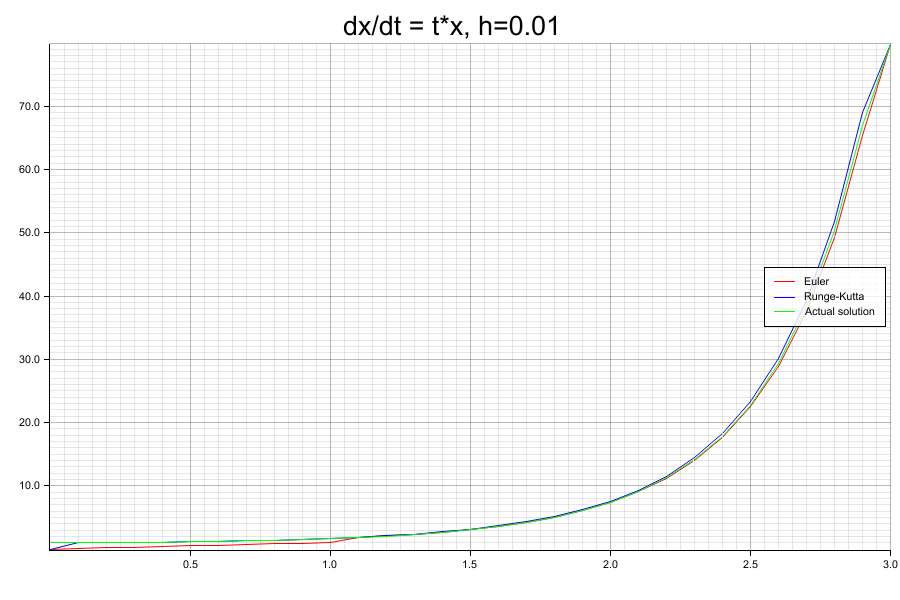
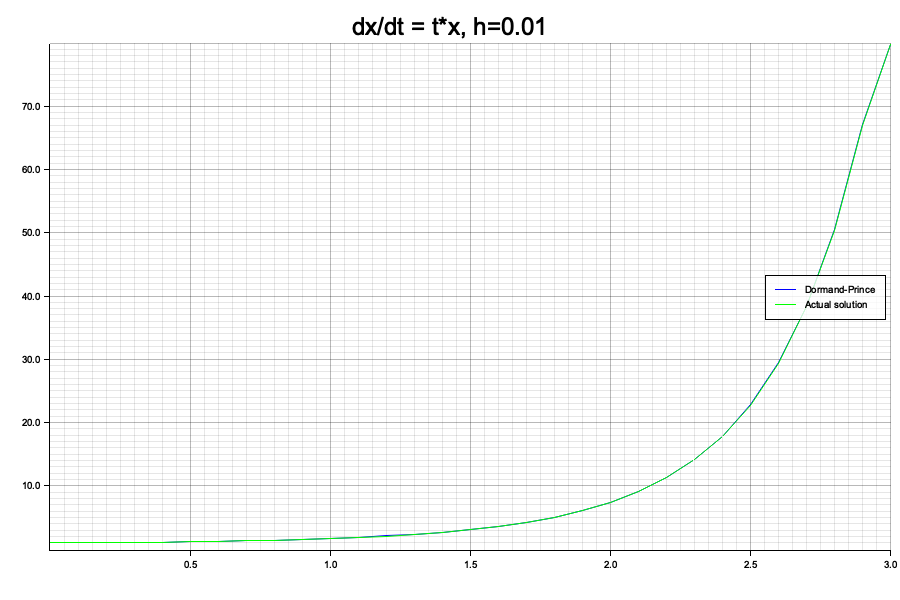
Add dopri solver, updated other stuff

diff --git a/src/runge_kutta/dopri.rs b/src/runge_kutta/dopri.rs
@@ -1,0 +1,124 @@
+use crate::solver::Solver;
+use std::cmp::Ordering::Equal;
+
+const A: [[f64; 6]; 7] = [
+    [0.0; 6],
+    [1.0/5.0, 0., 0., 0., 0., 0.],
+    [3./40., 9./40., 0., 0., 0., 0.],
+    [44./45., -56./15., 32./9., 0., 0., 0.],
+    [19372./6561., -25360./2187., 64448./6561., -212./729., 0., 0.],
+    [9017./3168., -355./33., 46732./5247., 49./176., -5103./18656., 0.],
+    [35./384., 0., 500./1113. ,125./192., -2187./6784., 11./84.],
+];
+const C: [f64; 7] = [0., 1.0/5.0, 3.0/10.0, 4.0/5.0, 8.0/9.0, 1.0, 1.0];
+const B1: [f64; 7] = [35./384., 0., 500./1113., 125./192., -2187./6784., 11./84., 0.];
+const B2: [f64; 7] = [5179./57600., 0., 7571./16695., 393./640., -92097./339200., 187./2100., 1./40.];
+
+pub struct DOPRISolver<'a> {
+    t_curr: f64,
+    x_curr: f64,
+    h: f64,
+    h_max: f64,
+    h_min: f64,
+    pub solved_pts: Vec<(f64, f64)>,
+    f: Box<dyn Fn(f64, f64) -> f64 + 'a>
+}
+
+impl<'a> DOPRISolver<'a> {
+    pub fn new(f: impl Fn(f64, f64) -> f64 + 'a, t_0: f64, x_0: f64, step_size: f64, h_min: f64, h_max: f64) -> Self {
+        DOPRISolver {
+            t_curr: t_0,
+            x_curr: x_0,
+            h: step_size,
+            h_min,
+            h_max,
+            solved_pts: vec![(t_0, x_0)],
+            f: Box::new(f)
+        }
+    }
+
+    pub fn set_step_bounds(&mut self, bounds: (f64, f64)) {
+        self._reset();
+        (self.h_min, self.h_max) = bounds;
+    }
+
+    fn _reset(&mut self) {
+        let initial_pt = self.solved_pts[0];
+        self.solved_pts.clear();
+        (self.t_curr, self.x_curr) = initial_pt;
+        self.solved_pts.push(initial_pt);
+    }
+}
+
+impl Iterator for DOPRISolver<'_> {
+    type Item = (f64, f64);
+    fn next(&mut self) -> Option<Self::Item> { self._next() }
+}
+
+impl<'a> Solver<'a> for DOPRISolver<'a> {
+    fn solve_at_point(&mut self, t: f64) -> Option<f64> {
+        if t > self.t_curr {
+            for point in self {
+                if point.0 >= t {
+                    return Some(point.1);
+                }
+            }
+            None
+        } else {
+            match self.solved_pts.binary_search_by(|a| a.0.partial_cmp(&t)
+                .unwrap_or(Equal)) {
+                Ok(idx) => Some(self.solved_pts[idx].1),
+                Err(idx) => Some(self.solved_pts[idx].1)
+            }
+        }
+    }
+
+    fn set_step_size(&mut self, h: f64) {
+        self._reset();
+        self.h = h;
+    }
+
+    fn set_fn(&mut self, f: impl Fn(f64, f64) -> f64 + 'a) {
+        self._reset();
+        self.f = Box::new(f);
+    }
+
+    fn set_initial_pt(&mut self, pt: (f64, f64)) {
+        self.solved_pts.clear();
+        (self.t_curr, self.x_curr) = pt;
+        self.solved_pts.push(pt);
+    }
+
+    fn _next(&mut self) -> Option<(f64, f64)> {
+        let mut y_n = self.x_curr;
+        let mut t_n = self.t_curr;
+        let mut h = self.h;
+        let f = &self.f;
+
+        let k_1 = h * f(t_n, y_n);
+        let k_2 = h * f(t_n + C[1]*h, y_n + A[1][0]*k_1);
+        let k_3 = h * f(t_n + C[2]*h, y_n + A[2][0]*k_1 + A[2][1]*k_2);
+        let k_4 = h * f(t_n + C[3]*h, y_n + A[3][0]*k_1 + A[3][1]*k_2 + A[3][2]*k_3);
+        let k_5 = h * f(t_n + C[4]*h, y_n + A[4][0]*k_1 + A[4][1]*k_2 + A[4][2]*k_3 + A[4][3]*k_4);
+        let k_6 = h * f(t_n + C[5]*h, y_n + A[5][0]*k_1 + A[5][1]*k_2 + A[5][2]*k_3 + A[5][3]*k_4 + A[5][4]*k_5);
+        let k_7 = h * f(t_n + C[6]*h, y_n + A[6][0]*k_1 + A[6][1]*k_2 + A[6][2]*k_3 + A[6][3]*k_4 + A[6][4]*k_5 + A[6][5]*k_6);
+
+        let y_n_1: f64 = y_n + B1[0]*k_1 + B1[2]*k_3 + B1[3]*k_4 + B1[4]*k_5 + B1[5]*k_6;
+        // let z_n_1: f64 = y_n + B2[0]*k_1 + B2[2]*k_3 + B2[3]*k_4 + B2[4]*k_5 + B2[5]*k_6 + B2[6]*k_7;
+        let mut err = ((B2[0]-B1[0])*k_1 + (B2[2]-B1[2])*k_3 + (B2[3]-B1[3])*k_4 + (B2[4]-B1[4])*k_5
+                            + (B2[5]-B1[5])*k_6 + (B2[6]-B1[6])*k_7).abs();
+
+        let h_factor = (f64::EPSILON*h / (2.*err)).powf(1./5.);
+        h *= h_factor;
+        h = h.clamp(self.h_min, self.h_max);
+
+        println!("err = {}, h_factor = {}, h = {}, self.h = {}", err, h_factor, h, self.h);
+
+        self.t_curr += self.h;
+        self.x_curr = y_n_1;
+        self.h = h;
+
+        self.solved_pts.push((self.t_curr, self.x_curr));
+        Some((self.t_curr, self.x_curr))
+    }
+}

diff --git a/examples/graph_euler_rk4_img.rs b/examples/graph_euler_rk4_img.rs
@@ -1,9 +1,9 @@
 use plotters::prelude::*;
-use std::f32::consts::E;
+use std::f64::consts::E;
 
-use diffy_queue::euler;
-use diffy_queue::runge_kutta as rk;
+use diffy_queue::runge_kutta::{RK4Solver, DOPRISolver};
 use diffy_queue::solver::Solver;
+use diffy_queue::euler::EulerSolver;
 
 fn graph_series_in_bounds(x_min: i32, x_max: i32, y_min: i32, y_max: i32) {
     let root = BitMapBackend::new("images/test_chart.png", (900, 600))
@@ -15,37 +15,44 @@ fn graph_series_in_bounds(x_min: i32, x_max: i32, y_min: i32, y_max: i32) {
         .margin(10)
         .set_label_area_size(LabelAreaPosition::Left, 40)
         .set_label_area_size(LabelAreaPosition::Bottom, 40)
-        .build_cartesian_2d(x_min as f32..x_max as f32, y_min as f32..y_max as f32)
+        .build_cartesian_2d(x_min as f64..x_max as f64, y_min as f64..y_max as f64)
         .unwrap();
 
     ctx.configure_mesh().draw().unwrap();
 
     let f_t_x = |t, x| t*x;
-    let mut solver = euler::create_euler_solver(&f_t_x, 0.0, 1.0, 0.01);
-    let mut rk4_solver = rk::create_rk4_solver(&f_t_x, 0.0, 1.0, 0.01);
-    let actual_soln = |t: f32| E.powf(0.5 * t.powf(2.0));
+    let mut solver = EulerSolver::new(f_t_x, 0.0, 1.0, 0.01);
+    let mut rk4_solver = RK4Solver::new(&f_t_x, 0.0, 1.0, 0.01);
+    let mut dopri_solver = DOPRISolver::new(&f_t_x, 0.0, 1.0, 0.01, 0.001, 1.0);
+    let actual_soln = |t: f64| E.powf(0.5 * t.powf(2.0));
 
-    println!("computed(1.0) = {}", solver.solve_at_point(1.0).unwrap());
+    // ctx.draw_series(
+    //     LineSeries::new((0..=x_max*10)
+    //                         .map(|x| x as f64 / 10.0)
+    //                         .map(|x| (x, solver.solve_at_point(x).unwrap())), &RED)
+    // ).unwrap()
+    //     .label("Euler")
+    //     .legend(|(x, y)| PathElement::new(vec![(x, y), (x + 20, y)], &RED));
+    //
+    // ctx.draw_series(
+    //     LineSeries::new((x_min*10..=x_max*10)
+    //                         .map(|x| x as f64 / 10.0)
+    //                         .map(|x| (x, rk4_solver.solve_at_point(x).unwrap())), &BLUE)
+    // ).unwrap()
+    //     .label("Runge-Kutta")
+    //     .legend(|(x, y)| PathElement::new(vec![(x, y), (x + 20, y)], &BLUE));
 
     ctx.draw_series(
-        LineSeries::new((x_min*10..=x_max*10)
-                            .map(|x| x as f32 / 10.0)
-                            .map(|x| (x, solver.solve_at_point(x).unwrap())), &RED)
+        LineSeries::new((0..=x_max*10)
+                            .map(|x| x as f64 / 10.0)
+                            .map(|x| (x, dopri_solver.solve_at_point(x).unwrap())), &BLUE)
     ).unwrap()
-        .label("Euler")
-        .legend(|(x, y)| PathElement::new(vec![(x, y), (x + 20, y)], &RED));
-
-    ctx.draw_series(
-        LineSeries::new((x_min*10..=x_max*10)
-                            .map(|x| x as f32 / 10.0)
-                            .map(|x| (x, rk4_solver.solve_at_point(x).unwrap())), &BLUE)
-    ).unwrap()
-        .label("Runge-Kutta")
+        .label("Dormand-Prince")
         .legend(|(x, y)| PathElement::new(vec![(x, y), (x + 20, y)], &BLUE));
 
     ctx.draw_series(
         LineSeries::new((x_min*10..=x_max*10)
-                            .map(|x| x as f32 / 10.0)
+                            .map(|x| x as f64 / 10.0)
                             .map(|x| (x, actual_soln(x))), &GREEN)
     ).unwrap()
         .label("Actual solution")

diff --git a/src/runge_kutta/rk4.rs b/src/runge_kutta/rk4.rs
@@ -1,7 +1,7 @@
 use crate::solver::Solver;
 use std::cmp::Ordering::Equal;
 
-pub struct EulerSolver<'a> {
+pub struct RK4Solver<'a> {
     t_curr: f64,
     x_curr: f64,
     step_size: f64,
@@ -9,9 +9,9 @@ pub struct EulerSolver<'a> {
     f: Box<dyn Fn(f64, f64) -> f64 + 'a>,
 }
 
-impl<'a> EulerSolver<'a> {
-    pub fn new (f: impl Fn(f64, f64) -> f64 + 'a, t_0: f64, x_0: f64, step_size: f64) -> Self {
-        EulerSolver {
+impl<'a> RK4Solver<'a> {
+    pub fn new(f: impl Fn(f64, f64) -> f64 + 'a, t_0: f64, x_0: f64, step_size: f64) -> Self {
+        RK4Solver {
             t_curr: t_0,
             x_curr: x_0,
             step_size,
@@ -21,12 +21,7 @@ impl<'a> EulerSolver<'a> {
     }
 }
 
-impl Iterator for EulerSolver<'_> {
-    type Item = (f64, f64);
-    fn next(&mut self) -> Option<(f64, f64)> { self._next() }
-}
-
-impl<'a> Solver<'a> for EulerSolver<'a> {
+impl<'a> Solver<'a> for RK4Solver<'a> {
     fn solve_at_point(&mut self, t: f64) -> Option<f64> {
         if t > self.t_curr {
             for point in self {
@@ -37,9 +32,9 @@ impl<'a> Solver<'a> for EulerSolver<'a> {
             None
         } else {
             match self.solved_pts.binary_search_by(|a| a.0.partial_cmp(&t)
-                                                                    .unwrap_or(Equal)) {
+                .unwrap_or(Equal)) {
                 Ok(idx) => Some(self.solved_pts[idx].1),
-                Err(idx) => {println!("err"); Some(self.solved_pts[idx].0)}
+                Err(idx) => Some(self.solved_pts[idx].1)
             }
         }
     }
@@ -67,15 +62,29 @@ impl<'a> Solver<'a> for EulerSolver<'a> {
     }
 
     fn _next(&mut self) -> Option<(f64, f64)> {
-        let t_prev = self.t_curr;
-        let x_prev = self.x_curr;
+        let y_n = self.x_curr;
+        let t_n = self.t_curr;
+        let h = self.step_size;
+        let f = &self.f;
 
-        self.t_curr += self.step_size;
+        let k_1 = f(y_n, t_n);
+        let k_2 = f(t_n + h/2.0, y_n + h*k_1.clone()/2.0);
+        let k_3 = f(t_n + h/2.0, y_n + h*k_2.clone()/2.0);
+        let k_4 = f(t_n + h, y_n + h*k_3.clone());
+
+        self.x_curr = y_n + 1.0/6.0*h*(k_1 + 2.0*k_2 + 2.0*k_3 + k_4);
+        self.t_curr = t_n + h;
         self.t_curr = (self.t_curr * 100000000.0).round() / 100000000.0;
-        self.x_curr += self.step_size * (self.f)(t_prev, x_prev);
 
         self.solved_pts.push((self.t_curr, self.x_curr));
         Some((self.t_curr, self.x_curr))
+    }
+}
+
+impl Iterator for RK4Solver<'_> {
+    type Item = (f64, f64);
+    fn next(&mut self) -> Option<Self::Item> {
+        self._next()
     }
 }
 

diff --git a/examples/repl_ish.rs b/examples/repl_ish.rs
@@ -59,8 +59,8 @@ fn main() -> Result<(), Box<dyn std::error::Error>> {
     let mut state = ReplState::ENTER_EQUATION;
 
     let mut equation: Option<meval::Expr> = None;
-    let mut initial = (0f32, 0f32);
-    let mut points: Vec<f32> = vec![];
+    let mut initial = (0f64, 0f64);
+    let mut points: Vec<f64> = vec![];
 
     while should_cont {
         buffer.clear();
@@ -93,7 +93,7 @@ fn main() -> Result<(), Box<dyn std::error::Error>> {
                     io::stdin().read_line(&mut buffer);
                     println!("{}", buffer);
                     println!("len: {}", buffer.len());
-                    match buffer.trim().parse::<f32>() {
+                    match buffer.trim().parse::<f64>() {
                         Ok(num) => points.push(num),
                         Err(_) => { state = SOLVE_POINTS; break }
                     }
@@ -110,7 +110,7 @@ fn main() -> Result<(), Box<dyn std::error::Error>> {
                     state = ENTER_EQUATION;
                     continue;
                 }
-                let f = move |t: f32, x: f32| e(t as f64, x as f64) as f32;
+                let f = move |t: f64, x: f64| e(t as f64, x as f64) as f64;
 
                 let mut euler = euler::create_euler_solver(&f, initial.0, initial.1, h);
                 let mut rk4 = runge_kutta::create_rk4_solver(&f, initial.0, initial.1, h);

diff --git a/src/solver.rs b/src/solver.rs
@@ -1,4 +1,8 @@
-pub trait Solver: Iterator<Item = (f32, f32)> {
-    fn solve_at_point(&mut self, t: f32) -> Option<f32>;
-    fn _next(&mut self) -> Option<(f32, f32)>;
+pub trait Solver<'a>: Iterator<Item = (f64, f64)> {
+    // fn new(f: F, t_0: f64, x_0: f64, h: f64) -> Self;
+    fn solve_at_point(&mut self, t: f64) -> Option<f64>;
+    fn set_step_size(&mut self, h: f64);
+    fn set_fn(&mut self, f: impl Fn(f64, f64) -> f64 + 'a);
+    fn set_initial_pt(&mut self, pt: (f64, f64));
+    fn _next(&mut self) -> Option<(f64, f64)>;
 }

diff --git a/src/lib.rs b/src/lib.rs
@@ -1,3 +1,4 @@
+#![feature(destructuring_assignment)]
+pub mod runge_kutta;
 pub mod euler;
 pub mod solver;
-pub mod runge_kutta;

diff --git a/src/runge_kutta/mod.rs b/src/runge_kutta/mod.rs
@@ -1,0 +1,5 @@
+pub mod rk4;
+pub mod dopri;
+
+pub use rk4::RK4Solver;
+pub use dopri::DOPRISolver;
